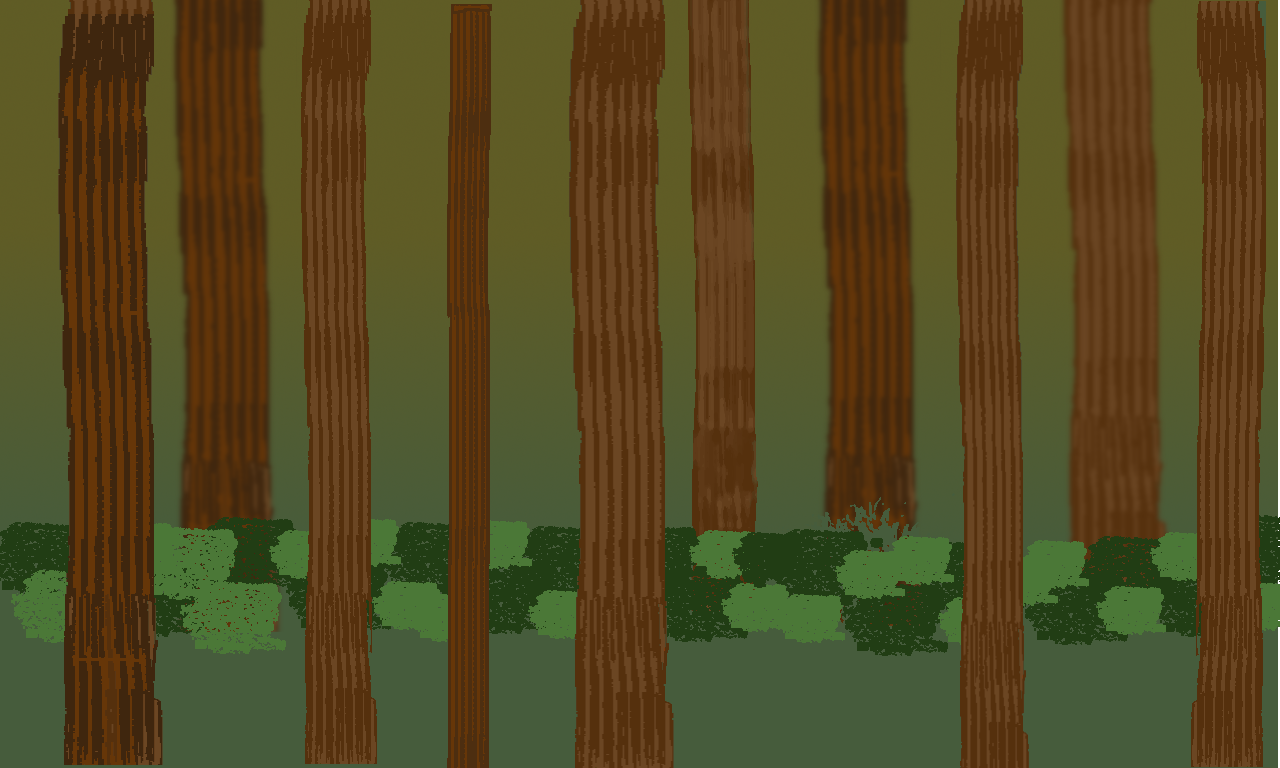
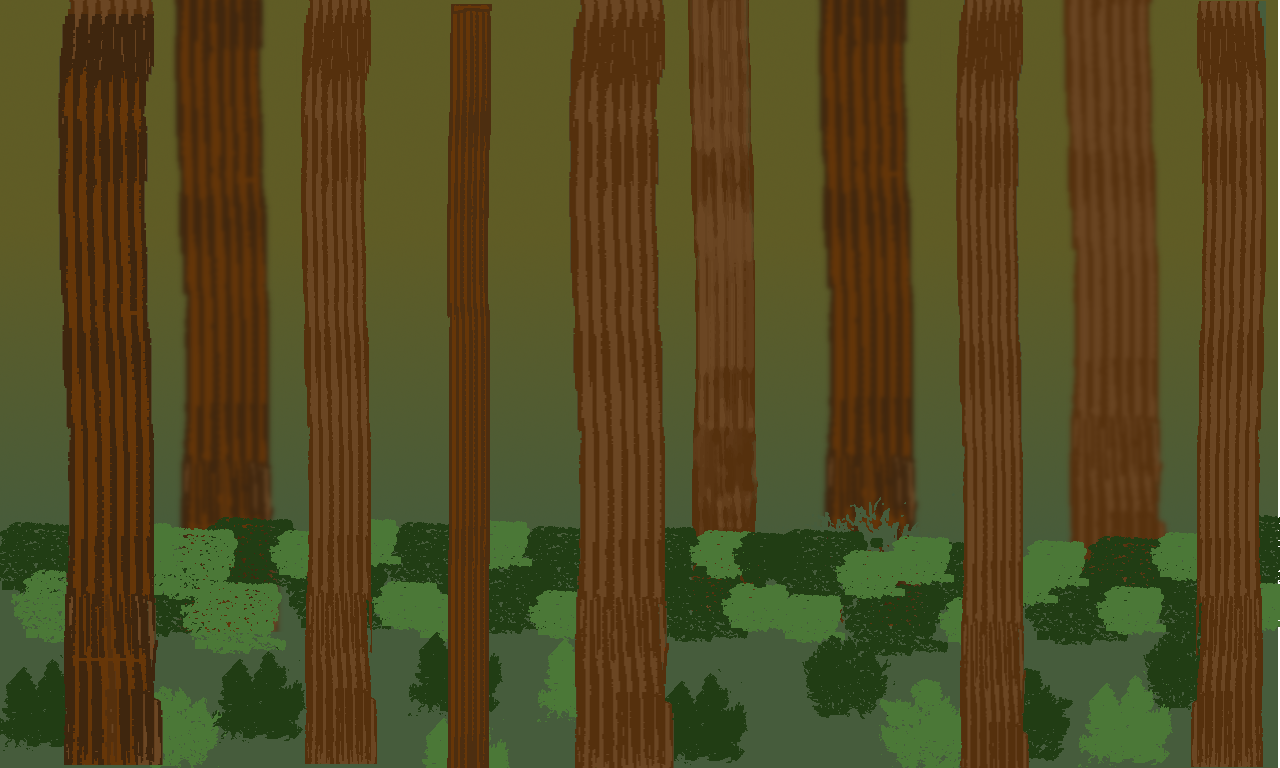
new map and more

diff --git a/assets/map/mushrooms.tsx b/assets/map/mushrooms.tsx
@@ -1,0 +1,4 @@
+<?xml version="1.0" encoding="UTF-8"?>
+<tileset version="1.9" tiledversion="1.9.0" name="mushrooms" tilewidth="64" tileheight="64" tilecount="48" columns="8">
+ <image source="mushrooms.png" width="512" height="384"/>
+</tileset>

diff --git a/assets/map/ground.tsx b/assets/map/ground.tsx
@@ -1,0 +1,4 @@
+<?xml version="1.0" encoding="UTF-8"?>
+<tileset version="1.9" tiledversion="1.9.0" name="ground" tilewidth="64" tileheight="64" tilecount="48" columns="8">
+ <image source="ground.png" width="512" height="384"/>
+</tileset>

diff --git a/assets/map/green.tsx b/assets/map/green.tsx
@@ -1,0 +1,4 @@
+<?xml version="1.0" encoding="UTF-8"?>
+<tileset version="1.9" tiledversion="1.9.0" name="green" tilewidth="64" tileheight="64" tilecount="48" columns="8">
+ <image source="green.png" width="512" height="384"/>
+</tileset>

diff --git a/core/src/com/mygdx/game/Summer.java b/core/src/com/mygdx/game/Summer.java
@@ -79,8 +79,10 @@ public class Summer extends GameScreen{
 		super.backgroundSprite.setPosition(super.player.getBody().getPosition().x * PPM - super.background.getWidth()/2f,
 				super.player.getBody().getPosition().y * PPM-  96);
 		super.backgroundSprite.draw(super.batch);
-		batch.draw(shrew, player.getBody().getPosition().x*PPM-(shrew.getWidth()/2),
-				player.getBody().getPosition().y*PPM-(shrew.getHeight()/2));
+		Sprite sprite = new Sprite(shrew);
+		sprite.flip(player.isDirection(),false);
+		batch.draw(sprite, player.getBody().getPosition().x*PPM-(sprite.getWidth()/2),
+				player.getBody().getPosition().y*PPM-(sprite.getHeight()/2),(player.getPower()+64)*1.25f,(player.getPower()+64)*1.25f);
 		for(int i=0; i<10; i++)
 			if(foods[i] != null)
 				batch.draw(shrew, foods[i].getBody().getPosition().x*PPM-(shrew.getWidth()/2),
@@ -96,7 +98,7 @@ public class Summer extends GameScreen{
 		}
 		super.batch.end();
 		super.orthogonalTiledMapRenderer.render();
-		super.box2DDebugRenderer.render(world, camera.combined.scl(PPM));
+//		super.box2DDebugRenderer.render(world, camera.combined.scl(PPM));
 
 	}
 	

diff --git a/core/src/objects/player/Player.java b/core/src/objects/player/Player.java
@@ -42,6 +42,8 @@ public class Player extends GameEntity {
             float force = body.getMass() * 12;
             body.applyLinearImpulse(new Vector2(0,force),body.getPosition(),true);
             this.jumpcounter++;
+
+
         }
         if (Gdx.input.isKeyJustPressed(Input.Keys.P)) {
             gameScreen.setProjectile(this.direction);
@@ -69,5 +71,12 @@ public class Player extends GameEntity {
     public void eat() {
         this.power++;
         eatingSound.play(5.0f);
+    }
+    public int getPower() {
+        return this.power;
+    }
+
+    public boolean isDirection() {
+        return direction;
     }
 }

diff --git a/core/src/com/mygdx/game/TitleScreen.java b/core/src/com/mygdx/game/TitleScreen.java
@@ -26,7 +26,7 @@ public class TitleScreen extends ScreenAdapter {
 	        @Override
 	        public boolean keyDown(int keyCode) {
 	            if (keyCode == Input.Keys.SPACE) {
-	            	game.setScreen(new Summer(game, "map/ez.tmx"));
+	            	game.setScreen(new Summer(game, "map/level_0.tmx"));
 	            }
 	            return true;
 	        }

diff --git a/core/src/handlers/ShrewContact.java b/core/src/handlers/ShrewContact.java
@@ -23,7 +23,7 @@ public class ShrewContact implements ContactListener {
         if(isProjectileEnemyContact(objA, objB)) {
             Venom venom = (Venom) objA.getUserData();
             Enemy enemy = (Enemy) objB.getUserData();
-            enemy.killEnemy();
+//            enemy.killEnemy();
             venom.gone();
         }
     }

diff --git a/core/src/com/mygdx/game/GameScreen.java b/core/src/com/mygdx/game/GameScreen.java
@@ -67,6 +67,7 @@ public abstract class GameScreen extends ScreenAdapter {
         this.orthogonalTiledMapRenderer = tileMapHelper.setupMap(mapPath);
 
         this.shrew = new Texture("shrew_1.png");
+
         this.venom = new Texture("venom.png");
 
         this.projectile = null;
